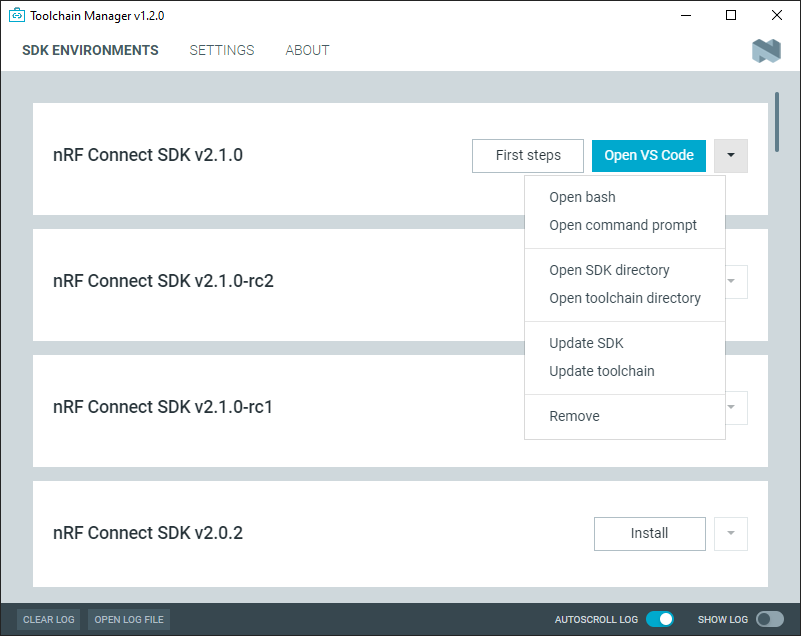
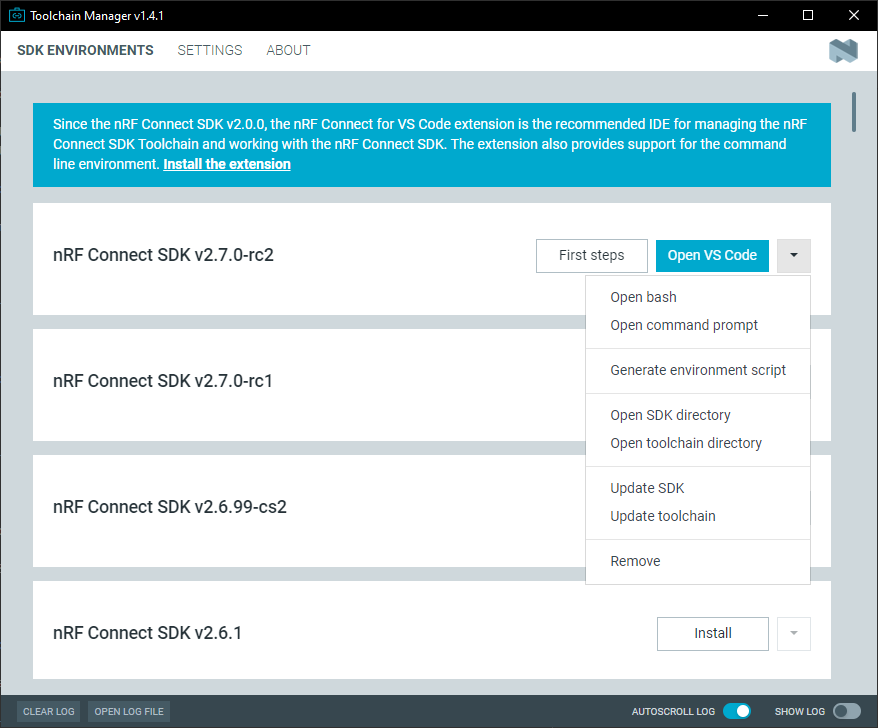
doc: install: updates from UX testing
Edited the installation instructions with fixes reported during
UX testing.

diff --git a/doc/nrf/installation/install_ncs.rst b/doc/nrf/installation/install_ncs.rst
@@ -17,7 +17,8 @@ There are different ways to install the |NCS|, depending on your preferred devel
 Regardless of which way you choose, the following steps install the |NCS| source code and the |NCS| :term:`toolchain`.
 This includes everything that is required by Zephyr's :ref:`zephyr:getting_started` together with additional tools and Python dependencies that the |NCS| uses.
 
-Using |VSC| and the |nRFVSC| is also covered in the `Installing nRF Connect SDK and VS Code`_ exercise of the `nRF Connect SDK Fundamentals course`_ on Nordic Developer Academy.
+.. note::
+    Using |VSC| and the |nRFVSC| is also covered in the `Installing nRF Connect SDK and VS Code`_ exercise of the `nRF Connect SDK Fundamentals course`_ on Nordic Developer Academy.
 
 .. rst-class:: numbered-step
 
@@ -76,7 +77,7 @@ Install the |NCS| toolchain
 ***************************
 
 The |NCS| :term:`toolchain` includes the Zephyr SDK and then adds tools and modules required to build |NCS| samples and applications on top of it.
-These include the :ref:`required tools <requirements_toolchain_tools>`, the Python dependencies, and the :ref:`GN tool <ug_matter_gs_tools_gn>` for creating :ref:`ug_matter` applications.
+These include the :ref:`required tools <requirements_toolchain_tools>`, the :ref:`Python dependencies <requirements_toolchain_python_deps>`, and the :ref:`GN tool <ug_matter_gs_tools_gn>` for creating :ref:`ug_matter` applications.
 
 When you first install the |NCS|, it is recommended to install the latest released versions of the SDK and the toolchain.
 
@@ -146,6 +147,8 @@ Depending on your preferred development environment, complete the following step
 
       To check the current configuration setting, use the ``nrfutil toolchain-manager config --show`` command.
       To read more about these commands, use the ``nrfutil toolchain-manager --help`` command.
+
+You can check the versions of the required tools and Python dependencies on the :ref:`Requirements reference page <requirements_toolchain>`.
 
 .. _cloning_the_repositories_win:
 .. _cloning_the_repositories:
@@ -328,23 +331,31 @@ Define the required environment variables as follows, depending on your operatin
 
    .. tab:: Windows
 
-      Navigate to the :file:`ncs` directory and run the following command in a terminal window:
+      Complete the following steps:
 
-      .. code-block:: console
+      1. Navigate to the :file:`ncs` directory.
+      #. Open the directory for your |NCS| version.
+      #. Run the following command in a terminal window:
 
-         zephyr/zephyr-env.cmd
+         .. code-block:: console
 
-      If you need to define additional environment variables, create the file :file:`%userprofile%\\zephyrrc.cmd` and add the variables there.
+            zephyr\zephyr-env.cmd
+
+      If you need to define additional environment variables, create the file :file:`%userprofile%/zephyrrc.cmd` and add the variables there.
       This file is loaded automatically when you run the above command.
       See :ref:`Zephyr documentation about using zephyrrc files <zephyr:env_vars_zephyrrc>` for more information.
 
    .. tab:: Linux
 
-      Navigate to the :file:`ncs` directory and run the following command in a terminal window:
+      Complete the following steps:
 
-      .. code-block:: console
+      1. Navigate to the :file:`ncs` directory.
+      #. Open the directory for your |NCS| version.
+      #. Run the following command in a terminal window:
 
-         source zephyr/zephyr-env.sh
+         .. code-block:: console
+
+            source zephyr/zephyr-env.sh
 
       If you need to define additional environment variables, create the file :file:`~/.zephyrrc` and add the variables there.
       This file is loaded automatically when you run the above command.
@@ -352,11 +363,15 @@ Define the required environment variables as follows, depending on your operatin
 
    .. tab:: macOS
 
-      Navigate to the :file:`ncs` directory and run the following command in a terminal window:
+      Complete the following steps:
 
-      .. code-block:: console
+      1. Navigate to the :file:`ncs` directory.
+      #. Open the directory for your |NCS| version.
+      #. Run the following command in a terminal window:
 
-         source zephyr/zephyr-env.sh
+         .. code-block:: console
+
+            source zephyr/zephyr-env.sh
 
       If you need to define additional environment variables, create the file :file:`~/.zephyrrc` and add the variables there.
       This file is loaded automatically when you run the above command.
@@ -648,12 +663,20 @@ Legacy installation with Toolchain Manager
             #. Click the dropdown menu for the installed nRF Connect SDK version.
 
                .. figure:: images/gs-assistant_tm_dropdown.png
-                  :alt: The Toolchain Manager dropdown menu for the installed nRF Connect SDK version, cropped
+                  :alt: The Toolchain Manager dropdown menu for the installed nRF Connect SDK version, on Windows
 
-                  The Toolchain Manager dropdown menu options
+                  The Toolchain Manager dropdown menu options (Windows)
 
-            #. Select :guilabel:`Open command prompt`.
+            #. Select the option to open a terminal window:
+
+               * Windows: :guilabel:`Open command prompt`
+               * Linux and macOS: :guilabel:`Open Terminal`
 
             You can then follow the instructions in :ref:`creating_cmd`.
+
+            .. note::
+                You can use the :guilabel:`Generate environment script` button to create a script that lets you switch between different |NCS| versions.
+                After you create the script, rename it and put it in a directory in your system :envvar:`PATH`.
+                This works the same way as the ``--as-script`` flag for nRF Util's `Toolchain Manager command`_ (``nrfutil toolchain-manager env --as-script``).
 
 .. |install_latest_version| replace:: When you first install the |NCS|, it is recommended to install the latest released versions of the SDK and the toolchain.
